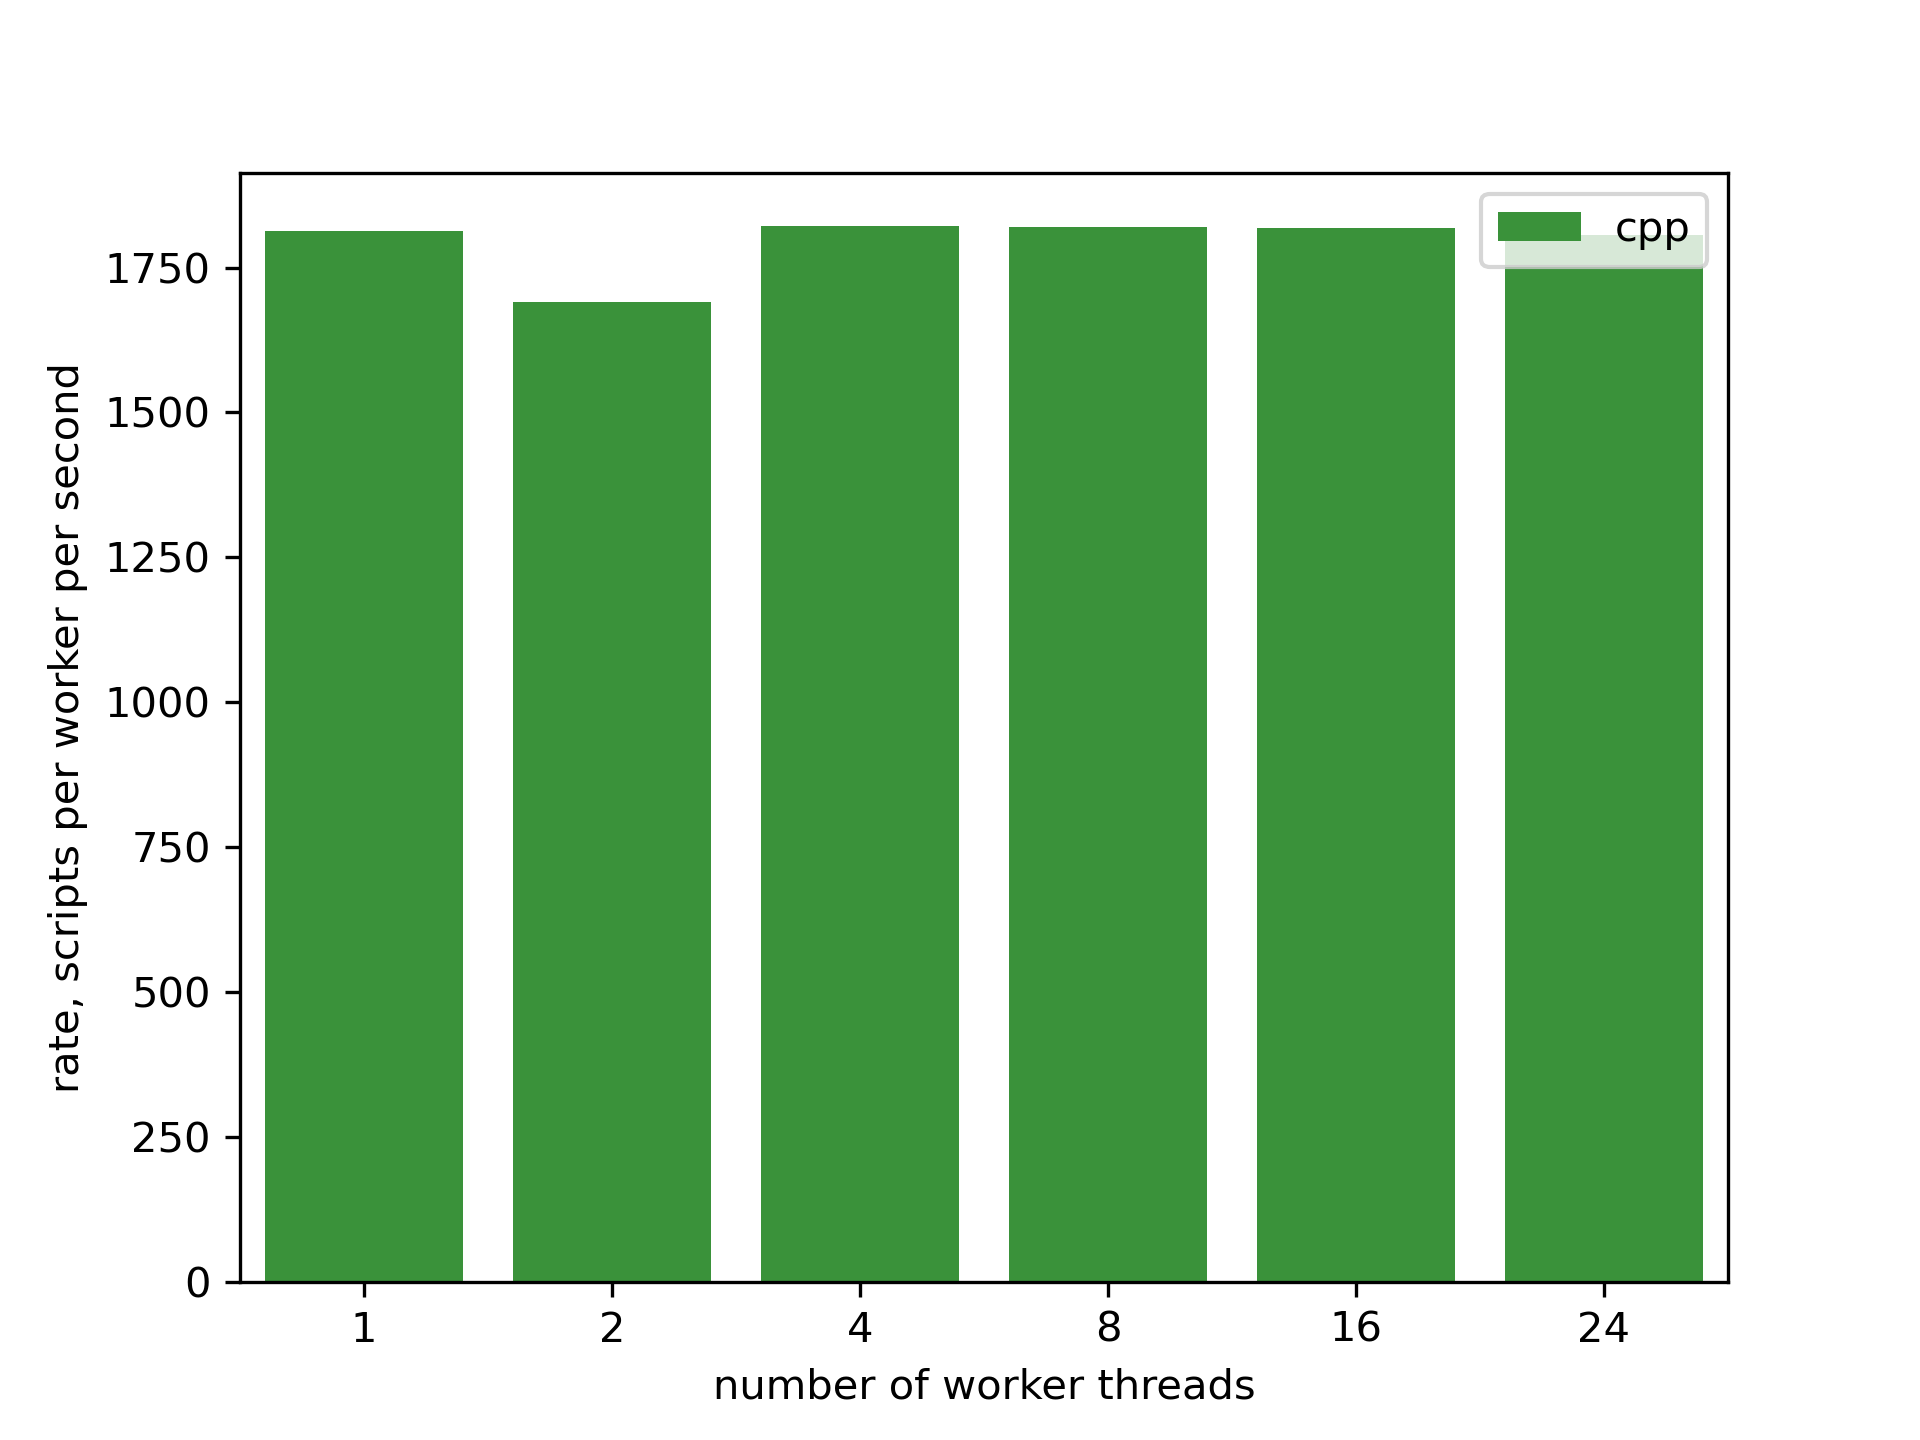
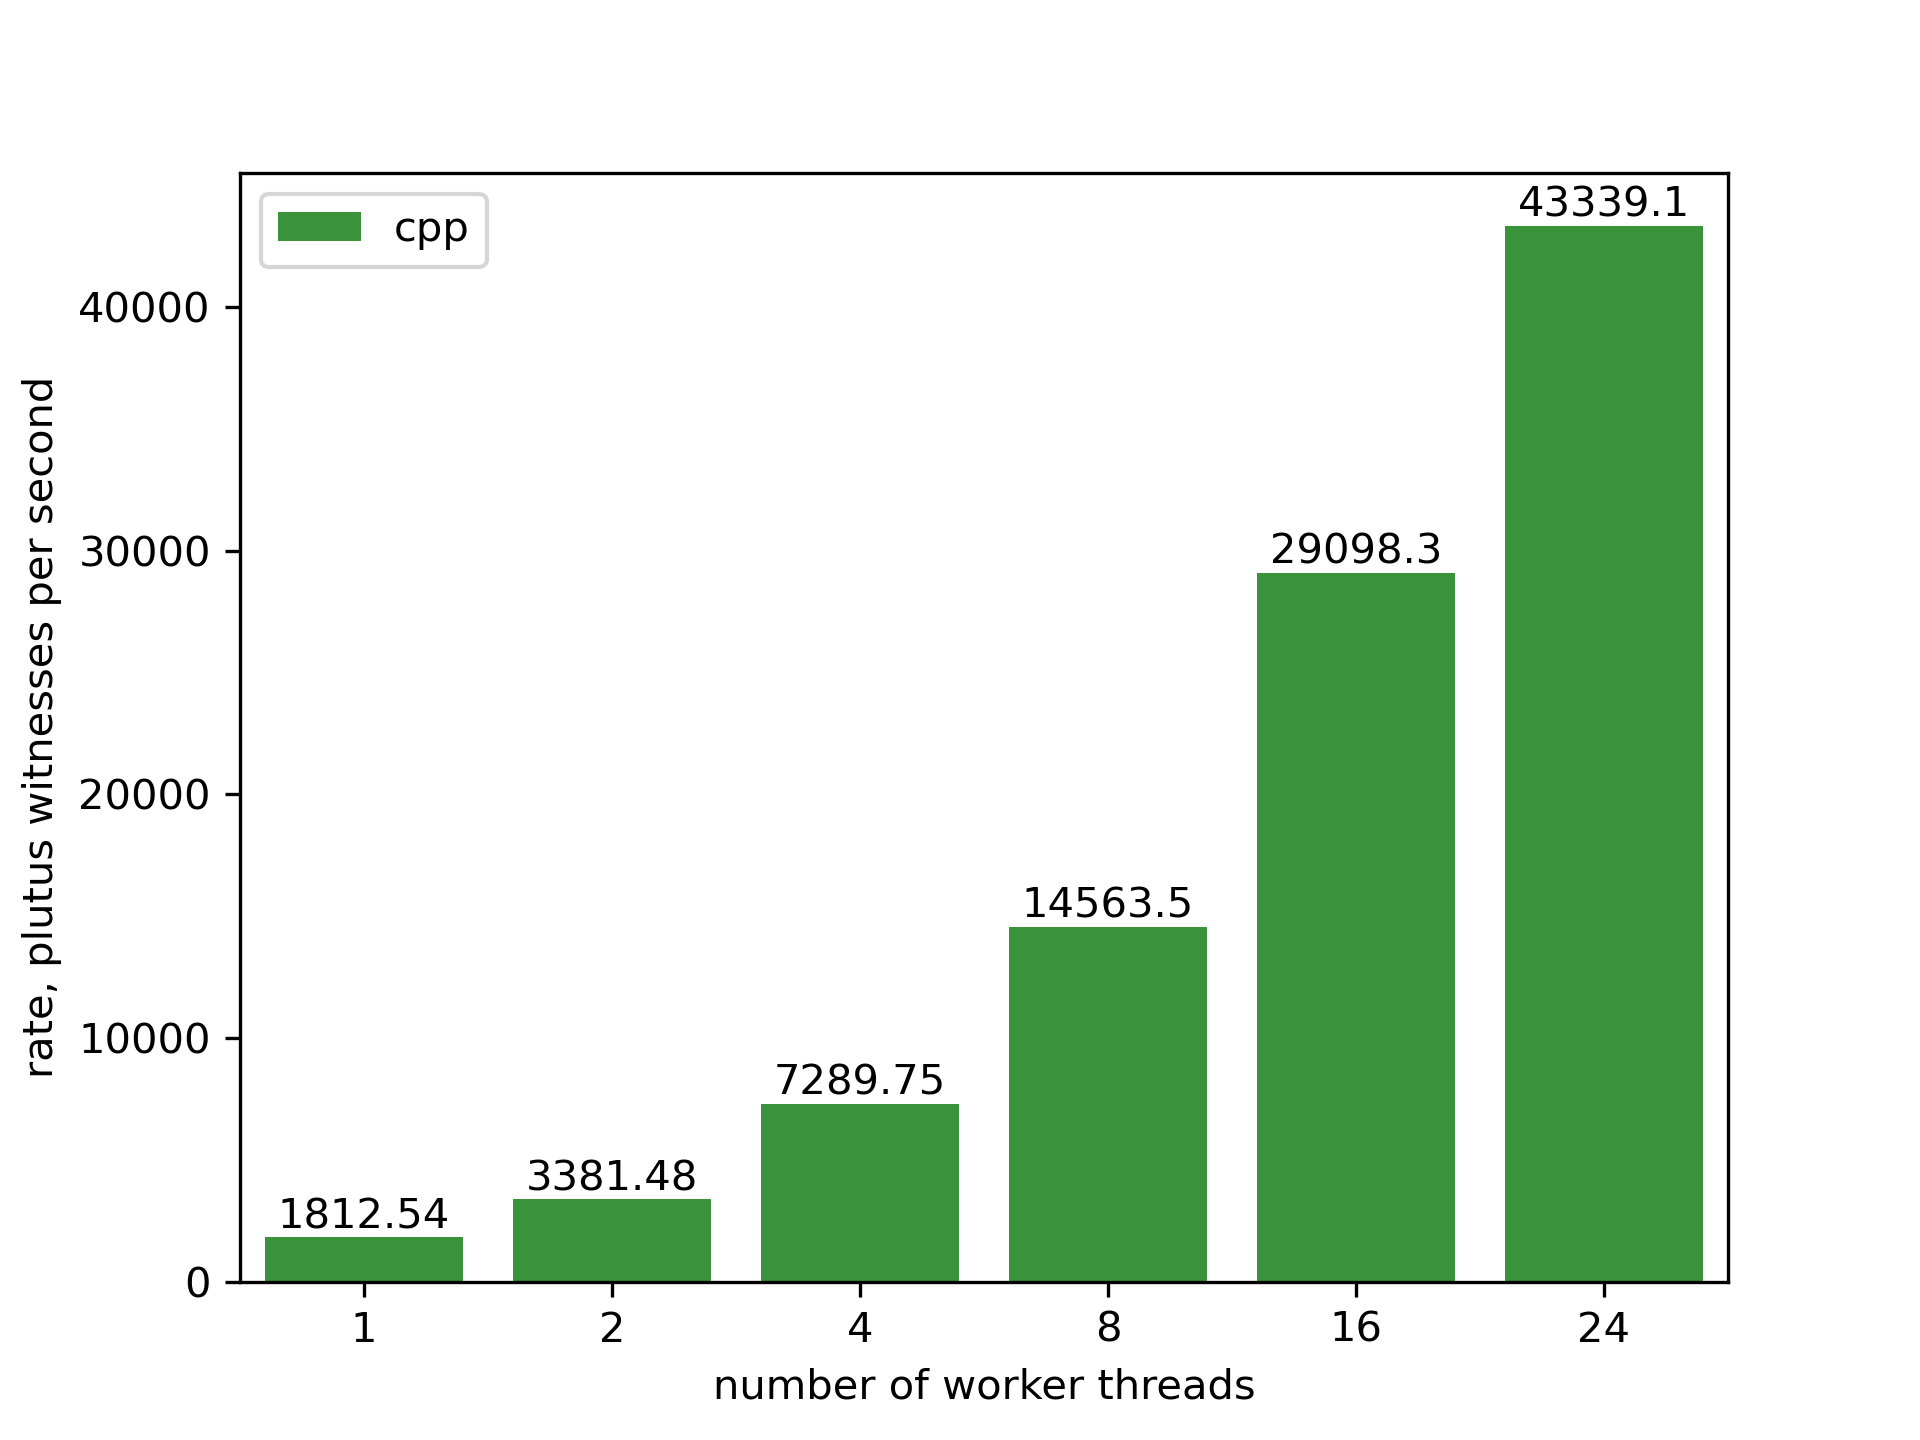
show rate_total on the throughput chart

Changed region(s): [[0.0, 0.125, 0.9062, 0.875]]

diff --git a/experiment/plutus-benchmark/prep-charts.py b/experiment/plutus-benchmark/prep-charts.py
@@ -36,10 +36,14 @@ def load_data(dir_path):
         if m:
             print(fname)
             df = pd.read_csv(dir_path + "/" + fname)
+            num_workers = int(m.group(2))
+            rate_per_worker = 1 / df["run_time"].mean()
+            rate_total = rate_per_worker * num_workers
             recs.append({
                 "name": m.group(1),
-                "threads": int(m.group(2)),
-                "rate": 1 / df["run_time"].mean()
+                "threads": num_workers,
+                "rate_per_worker": rate_per_worker,
+                "rate_total": rate_total,
             })
     return pd.DataFrame.from_records(recs)
 
@@ -56,8 +60,10 @@ import matplotlib.pyplot as plt
 import numpy as np
 
 sns.set_palette(['#2CA02C'], n_colors=100)
-g = sns.barplot(data=df, y='rate', x='threads', hue='name')
-g.set(ylabel='rate, scripts per worker per second', xlabel='number of worker threads')
+g = sns.barplot(data=df, y='rate_total', x='threads', hue='name')
+g.set(ylabel='rate, plutus witnesses per second', xlabel='number of worker threads')
+for c in g.containers:
+    g.bar_label(c)
 plt.legend()
 fig = g.get_figure()
 fig.savefig(data_dir + '/chart-rate.png', dpi=300)
@@ -65,8 +71,8 @@ plt.show(g)
 # -
 # ## Parallel efficiency
 
-base_rate = df.loc[df['threads'] == 1]['rate']
-df['efficiency'] = df['rate'] * 100 / base_rate[0]
+base_rate = df.loc[df['threads'] == 1]['rate_per_worker']
+df['efficiency'] = df['rate_per_worker'] * 100 / base_rate[0]
 g = sns.barplot(data=df, y='efficiency', x='threads',  hue='name', saturation=1.0)
 g.set(ylabel='parallel efficiency, %', xlabel='number of worker threads')
 ax = g.axes
@@ -82,7 +88,7 @@ plt.show(g)
 # this count is produced by txwit-stat command
 total_redeemers = 40_525_056
 
-df['pred_time'] = round(total_redeemers / (df['rate'] * df['threads']) / 60, 1)
+df['pred_time'] = round(total_redeemers / df['rate_total'] / 60, 1)
 g = sns.barplot(data=df, y='pred_time', x='threads',  hue='name', saturation=1.0)
 g.set(ylabel='predicted time, min', xlabel='number of worker threads')
 for c in g.containers:
